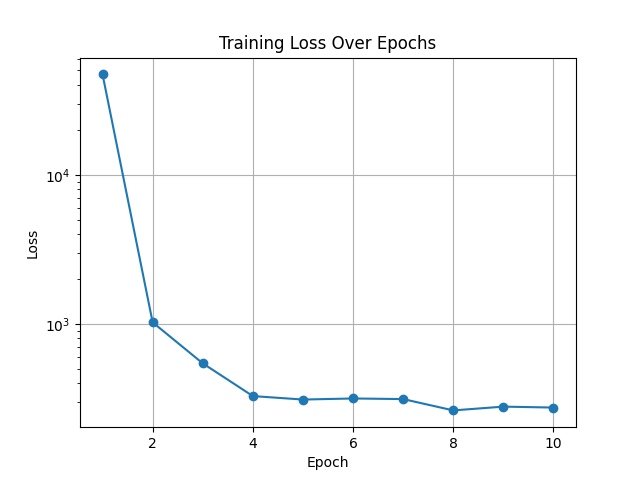
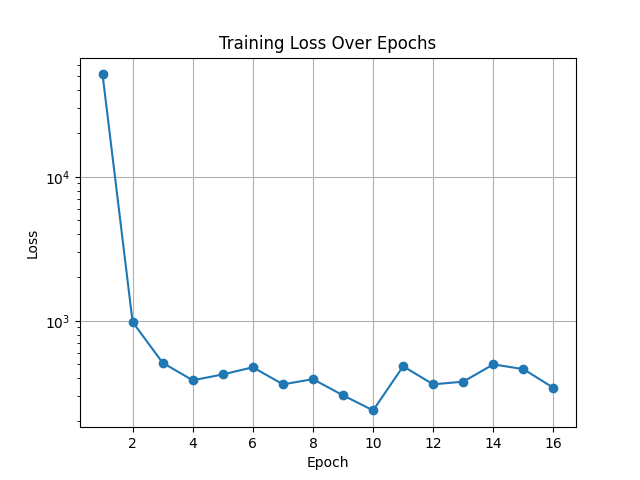
Now sequences are only over same day

diff --git a/sequenizer.py b/sequenizer.py
@@ -1,15 +1,55 @@
 import torch
 import numpy as np
+import pandas as pd
 from device import device
 
-def create_sequences(features: np.ndarray, seq_len: int):
-    num_sequences = len(features) - seq_len
-    num_features = features.shape[1]
 
-    xs = np.zeros((num_sequences, seq_len, num_features), dtype=np.float32)
-    ys = np.zeros((num_sequences, 1), dtype=np.float32)
-    for i in range(num_sequences):
-        xs[i] = features[i:i + seq_len]
-        ys[i] = features[i + seq_len, 1]
+TIMESTAMP = "Timestamp"
 
+def create_sequences(features: pd.DataFrame, seq_len: int):
+    """
+    Create sequences of features and corresponding labels from a DataFrame.
+
+    Args:
+        features (pd.DataFrame): DataFrame containing the features with a TIMESTAMP column.
+        seq_len (int): Length of the sequences to be created.
+
+    Returns:
+        Tuple[torch.Tensor, torch.Tensor]: Tensors containing the sequences of features (xs) 
+                                           and the corresponding labels (ys).
+    """
+    # Ensure TIMESTAMP is in datetime format
+    features[TIMESTAMP] = pd.to_datetime(features[TIMESTAMP])
+
+    # Split data by day
+    grouped = features.groupby(features[TIMESTAMP].dt.date)
+
+    xs, ys = [], []
+    for _, group in grouped:
+        # Drop the TIMESTAMP column and convert the remaining data to a numpy array
+        group_features = group.drop(columns=[TIMESTAMP]).values
+        # Calculate the number of sequences that can be created from the group
+        num_sequences = len(group_features) - seq_len
+        # Get the number of features in the data
+        num_features = group_features.shape[1]
+
+        # Initialize arrays to hold the sequences and labels for the current day
+        day_xs = np.zeros((num_sequences, seq_len, num_features), dtype=np.float32)
+        day_ys = np.zeros((num_sequences, 1), dtype=np.float32)
+        for i in range(num_sequences):
+            # Create a sequence of length seq_len
+            day_xs[i] = group_features[i:i + seq_len]
+            # The label for the sequence is the value of the second feature at the end of the sequence
+            day_ys[i] = group_features[i + seq_len, 1]
+
+        # Append the sequences and labels for the current day to the lists
+        xs.append(day_xs)
+        ys.append(day_ys)
+
+    # Combine sequences from all days
+    xs = np.concatenate(xs)
+    ys = np.concatenate(ys)
+
+    # Convert the sequences and labels to torch tensors and move them to the specified device
     return torch.tensor(xs).to(device), torch.tensor(ys).to(device)
+    

diff --git a/training.py b/training.py
@@ -1,7 +1,7 @@
 import torch
 import torch.nn as nn
 import torch.utils.data as data
-import numpy as np
+import pandas as pd
 import matplotlib
 import matplotlib.pyplot as plt
 from simple_lstm import model
@@ -12,7 +12,7 @@ from device import device
 
 matplotlib.use("Agg")
 
-def trainer(model: nn.Module, epochs: int, features: np.ndarray, learning_rate: float, seq_len: int):
+def trainer(model: nn.Module, epochs: int, features: pd.DataFrame, learning_rate: float, seq_len: int):
     criterion = nn.MSELoss()
     optimizer = torch.optim.Adam(model.parameters(), lr=learning_rate)
 
@@ -39,9 +39,7 @@ def trainer(model: nn.Module, epochs: int, features: np.ndarray, learning_rate: 
     torch.save(model.state_dict(), "trained_model.pth")
     return epoch_losses
 
-# Extract features (all rows, columns from index 1 to the end)
-features = train_data[:, 1:]
-epoch_losses = trainer(model, epochs, features, learning_rate, seq_len)
+epoch_losses = trainer(model, epochs, train_data, learning_rate, seq_len)
 
 torch.save(model.state_dict(), "trained_model.pth")
 

diff --git a/evaluate.py b/evaluate.py
@@ -12,7 +12,7 @@ from data import test_data
 
 matplotlib.use("Agg")
 
-def evaluate(model: nn.Module, features: np.ndarray, batch_size: int):
+def evaluate(model: nn.Module, features: pd.DataFrame, batch_size: int):
     model.eval()
     xs, ys = create_sequences(features, seq_len)
     loader = data.DataLoader(data.TensorDataset(xs, ys), batch_size=batch_size, drop_last=True)
@@ -32,10 +32,9 @@ def evaluate(model: nn.Module, features: np.ndarray, batch_size: int):
     
 model.load_state_dict(torch.load("trained_model.pth", weights_only=True))
 
-timestamps = test_data[:, 0]
-features = test_data[:, 1:]
+timestamps = test_data.values[:, 0]
 
-predictions, actuals = evaluate(model, features, batch_size)
+predictions, actuals = evaluate(model, test_data, batch_size)
 
 rmse = np.sqrt(np.mean((predictions - actuals) ** 2))
 mae = np.mean(np.abs(predictions - actuals))

diff --git a/data.py b/data.py
@@ -10,8 +10,8 @@ TEST_DATA_PATH = "dataset/NIST_cleaned_test.csv"
 DATA_PATH = "dataset/NIST_cleaned.csv"
 
 try:
-    train_data = pd.read_csv(TRAIN_DATA_PATH).values
-    test_data = pd.read_csv(TEST_DATA_PATH).values
+    train_data = pd.read_csv(TRAIN_DATA_PATH)
+    test_data = pd.read_csv(TEST_DATA_PATH)
 except FileNotFoundError as e:
     try:
         df = pd.read_csv(DATA_PATH)
@@ -41,5 +41,5 @@ except FileNotFoundError as e:
     traindf.to_csv(TRAIN_DATA_PATH, index=False)
     testdf.to_csv(TEST_DATA_PATH, index=False)
 
-    train_data = traindf.values
-    test_data = testdf.values
+    train_data = traindf
+    test_data = testdf

diff --git a/hyper_parameters.py b/hyper_parameters.py
@@ -1,6 +1,6 @@
 # Hyper params
 hidden_size = 50
-epochs = 10
+epochs = 16
 learning_rate = 0.001
 seq_len = 4
 batch_size = 16
